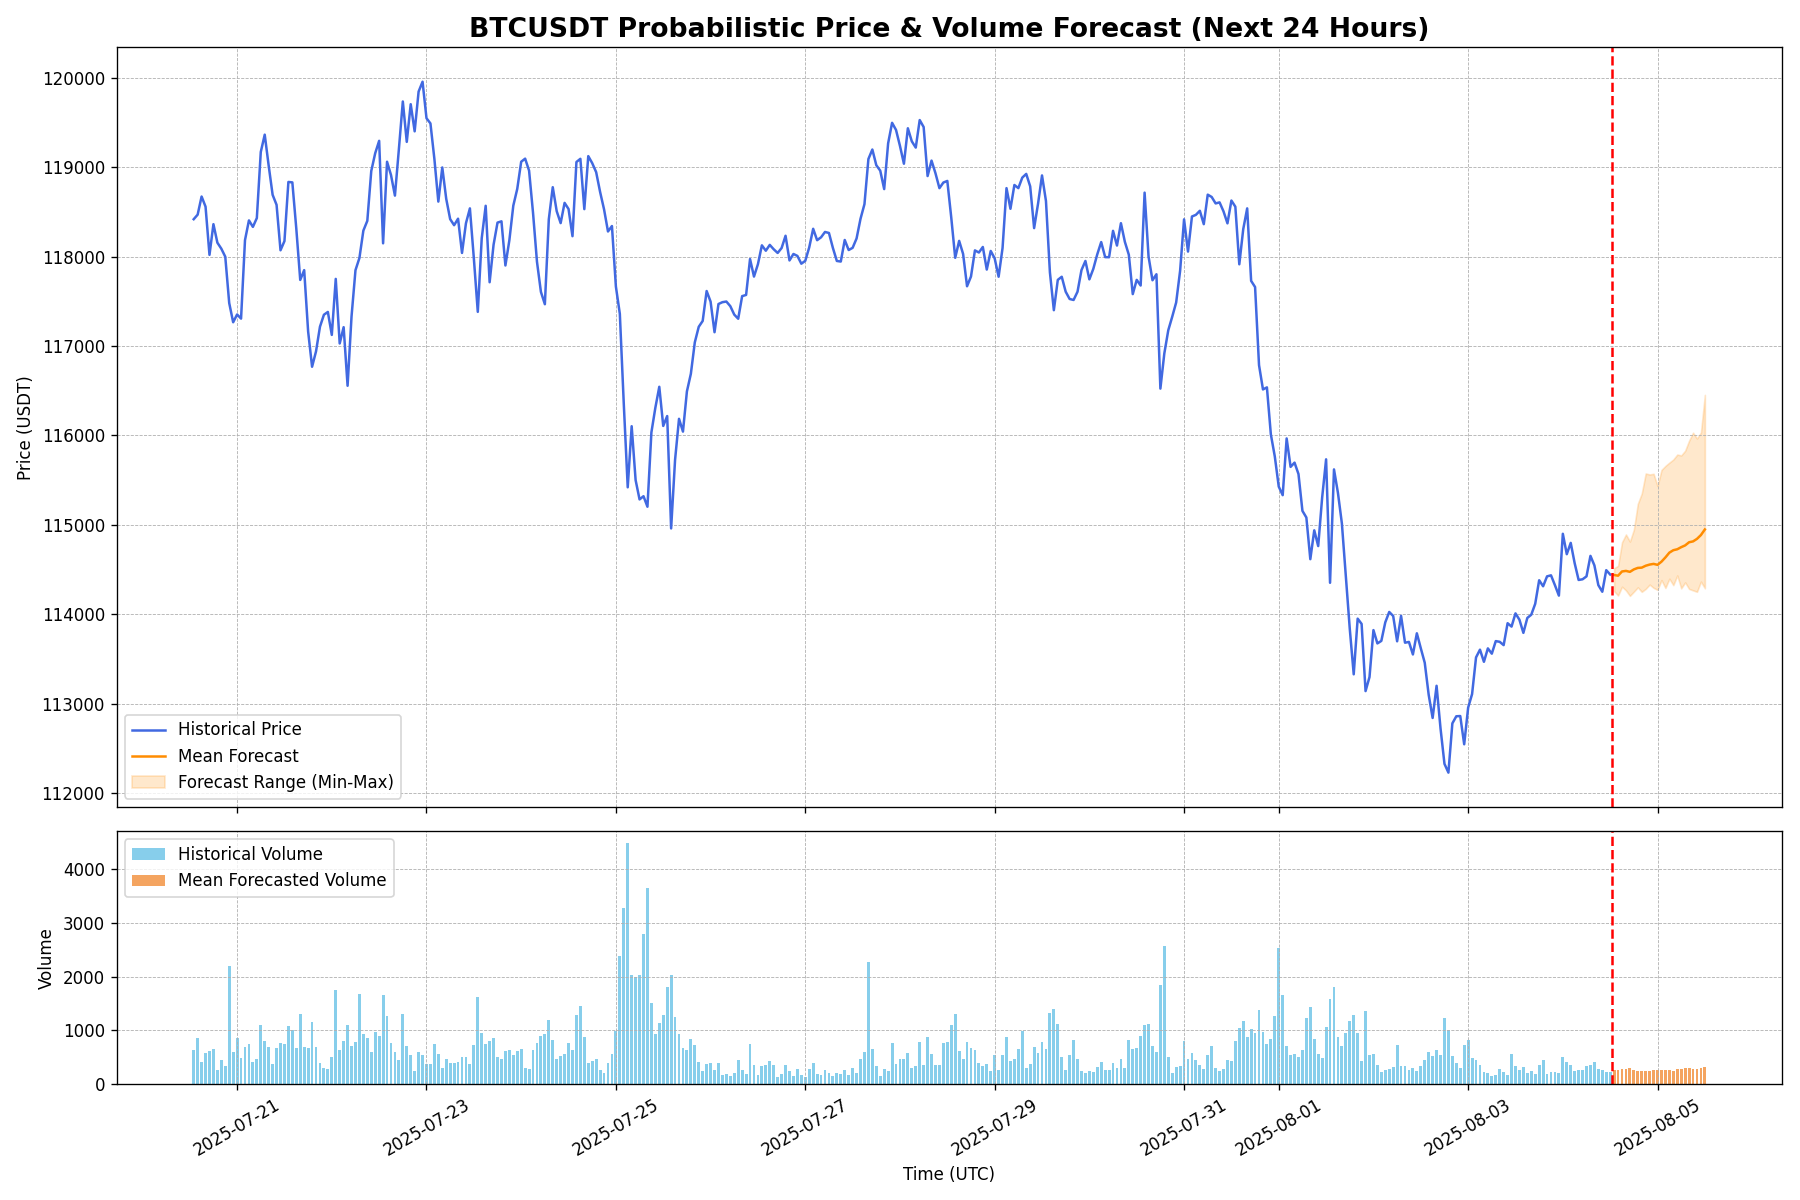
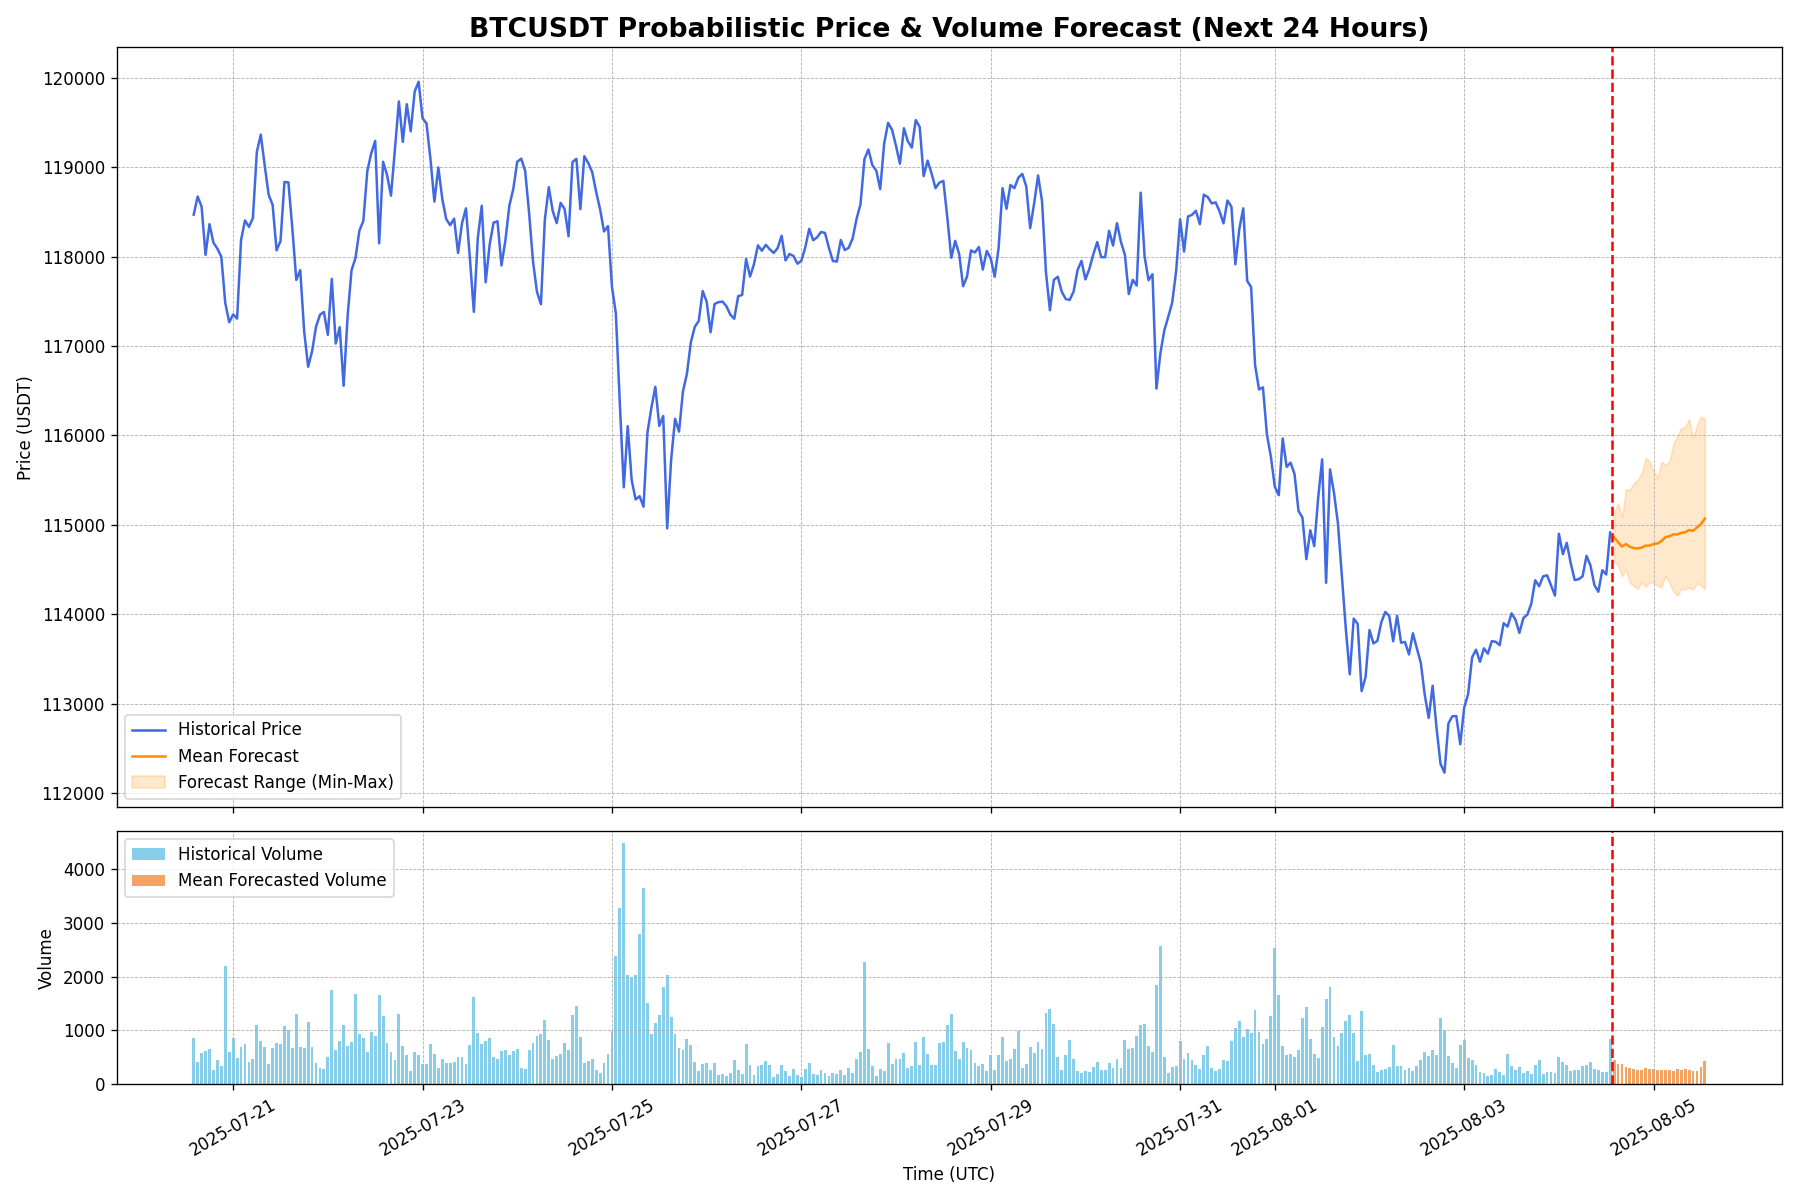
Auto-update forecast for 2025-08-04 14:06 UTC

diff --git a/index.html b/index.html
@@ -22,19 +22,19 @@
         <section id="live-dashboard">
             <h2>Live BTC/USDT Forecast Dashboard</h2>
             <div class="metadata">
-                <span>Last Updated (UTC): <strong id="update-time">2025-08-04 13:05:50</strong></span>
+                <span>Last Updated (UTC): <strong id="update-time">2025-08-04 14:06:07</strong></span>
                 <span>Data Source: Binance | Interval: 1-Hour</span>
             </div>
 
             <div class="metrics-container">
                 <div class="metric-card">
                     <h3>Upside Probability (Next 24h)</h3>
-                    <p class="metric-value" id="upside-prob">90.0%</p>
+                    <p class="metric-value" id="upside-prob">36.7%</p>
                     <div class="metric-desc">The model's confidence that the price in 24 hours will be higher than the last known price.</div>
                 </div>
                 <div class="metric-card">
                     <h3>Volatility Amplification (Next 24h)</h3>
-                    <p class="metric-value" id="vol-amp-prob">20.0%</p>
+                    <p class="metric-value" id="vol-amp-prob">36.7%</p>
                     <div class="metric-desc">The probability that predicted volatility over the next 24h will exceed recent historical volatility.</div>
                 </div>
             </div>
